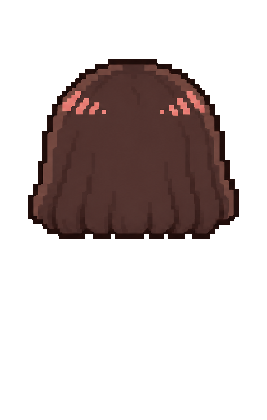
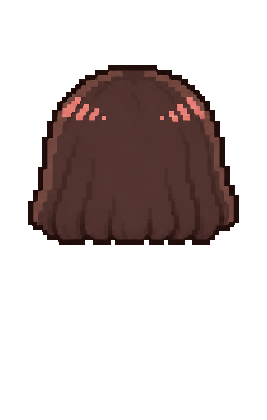
Pixel girl: shorter neck in front and back views; versioned image URLs
Heads sit 6px lower on the front and back bodies. Character images now
carry ?v=PIX_REV so an old page never mixes old and new art with the same
file name. Bump cache to v46.

Claude-Session: https://claude.ai/code/session_01HNLjjDhwiWZnZmJhscAi2v

Changed region(s): [[0.1498, 0.1238, 0.839, 0.3714], [0.0899, 0.3714, 0.8989, 0.5881], [0.1199, 0.3714, 0.1798, 0.4024]]

diff --git a/public/room.js b/public/room.js
@@ -64,10 +64,13 @@ const dollParts = (hair, cloth, face) => {
 const PIX_W = 267, PIX_H = 420, PIX_FOOT = [133.5, 389];
 const PIX_SIZE = 340; // 畫布在房間裡的高度（人物本身大約 272，和復古娃娃一樣高）
 const PIX_FRAME = 0.15; // 走路每格幾秒
+// 像素女孩的圖改過就把這個數字 +1（sw.js 的清單也要一起改）：網址不同，舊版程式和新圖才不會混在一起
+const PIX_REV = 2;
+const pixSrc = (f) => `${BASE}pixel/${f}.webp?v=${PIX_REV}`;
 const pixParts = (hair, cloth, view) => [`body_${cloth}_${view}`, `head_${hair}_${view === 'front' ? 'front' : 'side'}`];
 export function lookLayers(look, face = 'smile') {
   const l = normalizeLook(look);
-  if (l.style === 'pixel') return pixParts(l.hair, l.cloth, 'front').map((f) => `${BASE}pixel/${f}.webp`);
+  if (l.style === 'pixel') return pixParts(l.hair, l.cloth, 'front').map(pixSrc);
   if (l.style === 'doll') return dollFrontParts(l.hair, l.cloth).filter(Boolean).map((f) => `${BASE}doll/front/${f}.webp`);
   return [
     l.hair && `hair_${l.hair}_back`, 'body', l.cloth && `cloth_${l.cloth}`, `face_${face}`, l.hair && `hair_${l.hair}_front`, SYM[face] && `sym_${face}`,
@@ -270,7 +273,7 @@ export class Room {
     const look = normalizeLook(this.state.look);
     const view = this.walking ? `walk${Math.floor(this.pixT / PIX_FRAME) % 4}` : 'front';
     pixParts(look.hair, look.cloth, view).forEach((f, i) => {
-      const href = `${BASE}pixel/${f}.webp`, img = this.pixImgs[i];
+      const href = pixSrc(f), img = this.pixImgs[i];
       if (img.getAttribute('href') !== href) img.setAttribute('href', href);
     });
     this.pixFlip.setAttribute('transform', this.walking ? '' : `scale(${this.me.dir},1)`);

diff --git a/public/sw.js b/public/sw.js
@@ -1,5 +1,5 @@
 // 改了任何檔案就把版本號 +1，舊快取才會被清掉
-const CACHE = 'lifelog-v45';
+const CACHE = 'lifelog-v46';
 const ASSETS = [
   './',
   './privacy',
@@ -64,16 +64,16 @@ const ASSETS = [
   './icons/icon-maskable-512.png',
   './icons/favicon-32.png',
   './logo.webp',
-  './room/pixel/body_sweater_back.webp',
-  './room/pixel/body_sweater_front.webp',
-  './room/pixel/body_sweater_side.webp',
-  './room/pixel/body_sweater_walk0.webp',
-  './room/pixel/body_sweater_walk1.webp',
-  './room/pixel/body_sweater_walk2.webp',
-  './room/pixel/body_sweater_walk3.webp',
-  './room/pixel/head_bob_back.webp',
-  './room/pixel/head_bob_front.webp',
-  './room/pixel/head_bob_side.webp',
+  './room/pixel/body_sweater_back.webp?v=2',
+  './room/pixel/body_sweater_front.webp?v=2',
+  './room/pixel/body_sweater_side.webp?v=2',
+  './room/pixel/body_sweater_walk0.webp?v=2',
+  './room/pixel/body_sweater_walk1.webp?v=2',
+  './room/pixel/body_sweater_walk2.webp?v=2',
+  './room/pixel/body_sweater_walk3.webp?v=2',
+  './room/pixel/head_bob_back.webp?v=2',
+  './room/pixel/head_bob_front.webp?v=2',
+  './room/pixel/head_bob_side.webp?v=2',
 ];
 
 // 網址會被轉址的（/index.html → /）不放進快取：Safari 不接受 service worker 回傳轉址過的回應，會變成空白頁

diff --git a/art/tools/pixel_parts.py b/art/tools/pixel_parts.py
@@ -20,7 +20,7 @@ OUT = os.path.join(ROOT, 'public/room/pixel')
 CW, CH = 267, 420
 UNIT = 5.2            # 輸出時一格像素的大小（畫布 px）
 NECK = (133.5, 225)   # 脖子頂端在畫布上的位置
-CHIN_OVER = 1.2       # 下巴蓋住脖子幾格
+CHIN_OVER = {'front': 2.4, 'side': 1.2, 'back': 2.4}   # 下巴蓋住脖子幾格（正面、背面露出的脖子比較長，壓低一點）
 BODY_VIEWS = ['front', 'side', 'back', 'walk0', 'walk1', 'walk2', 'walk3']
 HEAD_VIEWS = ['front', 'side', 'back']
 
@@ -81,7 +81,7 @@ def main():
                 cx = (xb.min() + xb.max()) / 2
                 if v == 'side': cx = (cx + p.shape[1] / 2) / 2   # 側面：脖子在臉和後腦中間
                 chin = (cx, b + u)
-            save(p, k, chin, (NECK[0], NECK[1] + CHIN_OVER * UNIT), f'head_{name}_{v}')
+            save(p, k, chin, (NECK[0], NECK[1] + CHIN_OVER[v] * UNIT), f'head_{name}_{v}')
 
 if __name__ == '__main__':
     main()

diff --git a/CLAUDE.md b/CLAUDE.md
@@ -112,6 +112,7 @@ tests/             Playwright 端對端測試
   - 男生素體 `art/source/doll34_boy_base.webp` 已有，髮型和衣服等使用者生成。
 - **像素女孩**（`style: 'pixel'`，新使用者的預設，`cyworld` 分支）：logo 女孩的像素風，**紙娃娃做法**。
   - 頭和身體是 GPT 分開畫的零件（`art/source/pixel2/`）：`head_<髮型>` 一列 3 顆頭（正、側朝右、背），只有頭、下巴有外框；`body_<衣服>` 一列 7 個沒頭的身體（正、側、背、側面走路 4 格），脖子是一小截皮膚；
+  - 改了像素女孩的圖：`room.js` 的 `PIX_REV` 和 `sw.js` 清單的 `?v=` 一起 +1（檔名相同、內容不同時，舊程式才不會混到新圖）；
   - `python3 art/tools/pixel_parts.py`：每張用自己外框的粗細算出「一格像素多大」統一縮放，**不用和別張對齊**；輸出 `public/room/pixel/` 的 `body_<衣服>_front|side|back|walk0-3.webp`、`head_<髮型>_front|side|back.webp`，脖子固定在畫布 (133.5, 225)，頭的下巴蓋在脖子上；
   - 任何頭都能疊任何身體；站著正面、走路側面的頭＋4 格身體（每格 0.15 秒），往左走整個翻面；
   - 教訓：不要從「一整個人」的圖裡挖頭髮或切脖子——GPT 每張都會偏移縮放，疊起來會有雙線和接縫；
